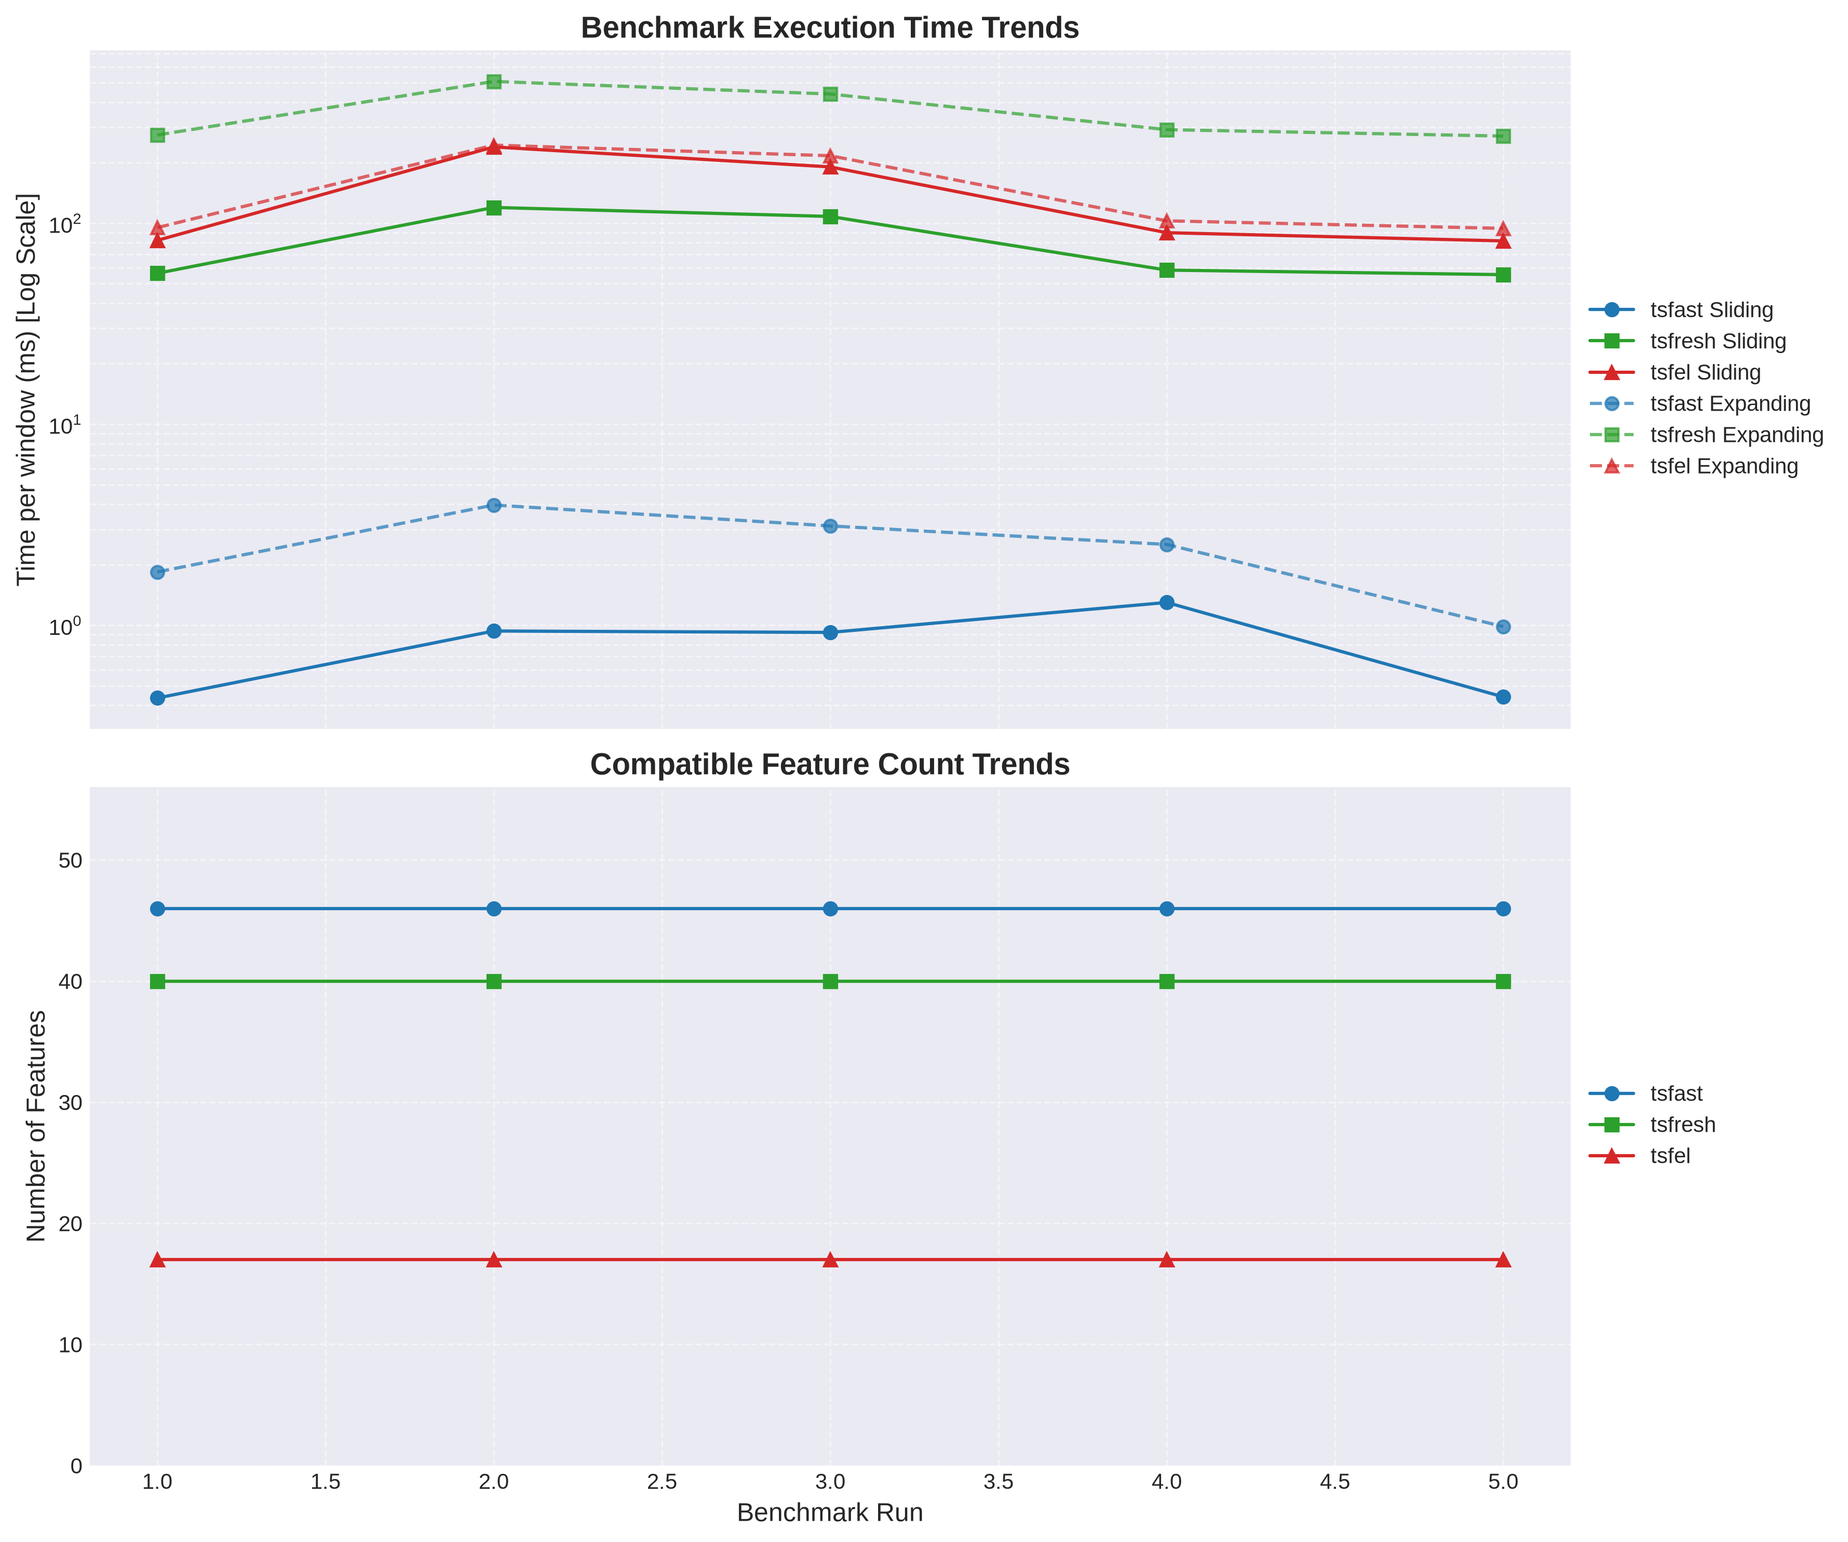
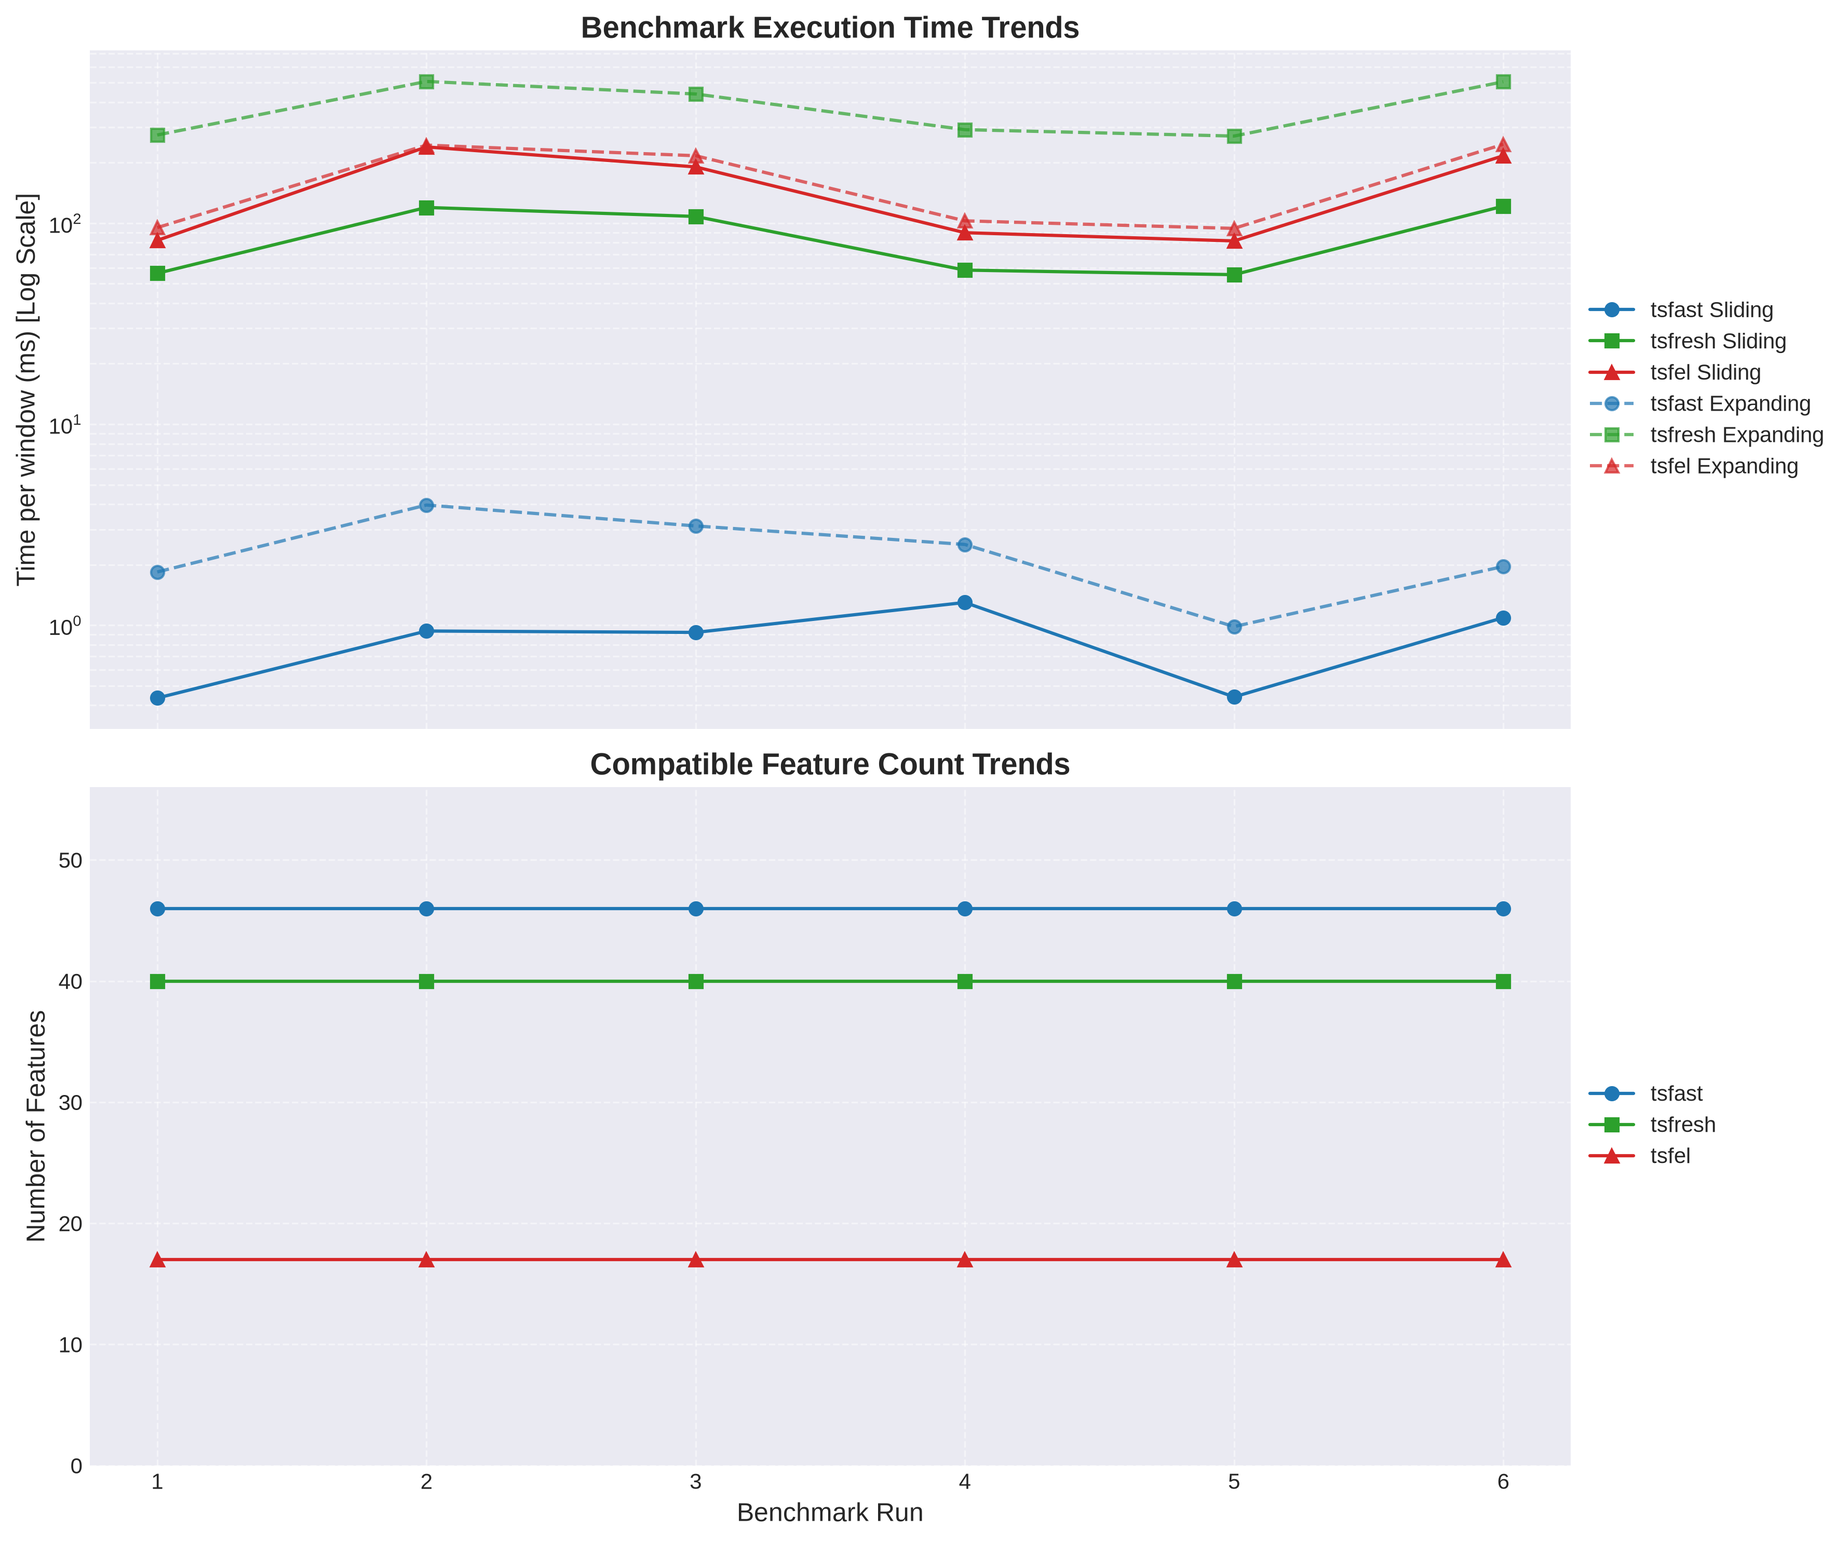
feat: Add ratio_beyond_r_sigma, index_mass_quantile, and c3 features (#49)
Added implementation for three missing tsfresh features: ratio_beyond_r_sigma,
index_mass_quantile, and c3. Ensured that they operate appropriately across
all engines (static, sliding, and expanding) and updated the benchmark suite
to evaluate their performance.

diff --git a/src/features/distribution.rs b/src/features/distribution.rs
@@ -13,7 +13,7 @@ pub fn eval_distribution(
     let _m3 = context.m3;
     let _m4 = context.m4;
     let _var = context.var;
-    let _std_dev = context.std_dev;
+    let std_dev = context.std_dev;
     let _mac_sum = context.mac_sum;
     let _mc_sum = context.mc_sum;
     let _first_max_idx = context.first_max_idx;
@@ -43,6 +43,84 @@ pub fn eval_distribution(
     let res = match feat {
                 Feature::Median => median,
                 Feature::Entropy => entropy,
+                Feature::RatioBeyondRSigma(r_bits) => {
+                    let r = f32::from_bits(*r_bits);
+                    let boundary = r * std_dev;
+                    let mean = context.mean;
+                    let mut count = 0;
+                    // We can use vectorized logic to speed up processing
+                    use std::simd::{f32x4, num::SimdFloat, cmp::SimdPartialOrd};
+
+                    let chunks = values.chunks_exact(4);
+                    let rem = chunks.remainder();
+                    let boundary_simd = f32x4::splat(boundary);
+                    let mean_simd = f32x4::splat(mean);
+
+                    for chunk in chunks {
+                        let v = f32x4::from_slice(chunk);
+                        let diff = (v - mean_simd).abs();
+                        let mask = diff.simd_gt(boundary_simd);
+                        count += mask.to_bitmask().count_ones();
+                    }
+
+                    for &v in rem {
+                        if (v - mean).abs() > boundary {
+                            count += 1;
+                        }
+                    }
+
+                    if values.is_empty() {
+                        0.0
+                    } else {
+                        count as f32 / values.len() as f32
+                    }
+                }
+                Feature::IndexMassQuantile(q_bits) => {
+                    let q = f32::from_bits(*q_bits) as f64;
+                    let target_mass = q * state.abs_sum as f64;
+
+                    if target_mass <= 0.0 || values.is_empty() {
+                        0.0
+                    } else {
+                        // Check if we can resume (only if the array hasn't shrunk, e.g. expanding)
+                        if state.mass_pointer < values.len() && state.mass_cum_sum < target_mass {
+                            let mut cum_sum = state.mass_cum_sum;
+                            let mut pointer = state.mass_pointer;
+                            while pointer < values.len() {
+                                cum_sum += values[pointer].abs() as f64;
+                                if cum_sum >= target_mass {
+                                    state.mass_cum_sum = cum_sum;
+                                    state.mass_pointer = pointer;
+                                    break;
+                                }
+                                pointer += 1;
+                            }
+                            if pointer >= values.len() {
+                                pointer = values.len() - 1;
+                                state.mass_cum_sum = cum_sum;
+                                state.mass_pointer = pointer;
+                            }
+                            (state.mass_pointer + 1) as f32 / values.len() as f32
+                        } else {
+                            // Sliding window or mass center shifted left
+                            let mut cum_sum = 0.0;
+                            let mut pointer = 0;
+                            while pointer < values.len() {
+                                cum_sum += values[pointer].abs() as f64;
+                                if cum_sum >= target_mass {
+                                    break;
+                                }
+                                pointer += 1;
+                            }
+                            if pointer >= values.len() {
+                                pointer = values.len() - 1;
+                            }
+                            state.mass_cum_sum = cum_sum;
+                            state.mass_pointer = pointer;
+                            (pointer + 1) as f32 / values.len() as f32
+                        }
+                    }
+                }
                 Feature::Quantile(q_bits) => {
                     let q = f32::from_bits(*q_bits);
 

diff --git a/src/types/parse.rs b/src/types/parse.rs
@@ -203,6 +203,10 @@ fn parse_parameterized(s: &str) -> Option<Feature> {
         let r: f32 = arg.parse().ok()?;
         return Some(Feature::SymmetryLooking(r.to_bits()));
     }
+    if let Some(arg) = s.strip_prefix("ratio_beyond_r_sigma-") {
+        let r: f32 = arg.parse().ok()?;
+        return Some(Feature::RatioBeyondRSigma(r.to_bits()));
+    }
     None
 }
 
@@ -312,6 +316,11 @@ fn parse_legacy_format(s: &str) -> Option<Feature> {
     if let Some(arg) = s.strip_prefix("symmetry_looking__r_") {
         let r: f32 = arg.parse().ok()?;
         return Some(Feature::SymmetryLooking(r.to_bits()));
+    }
+    if s.contains("value__ratio_beyond_r_sigma__r_") {
+        let pos = s.find("r_")?;
+        let r: f32 = s[pos + 2..].parse().ok()?;
+        return Some(Feature::RatioBeyondRSigma(r.to_bits()));
     }
     None
 }
@@ -465,6 +474,9 @@ impl Feature {
             }
             Feature::SymmetryLooking(r_bits) => {
                 format!("symmetry_looking-{}", f32::from_bits(*r_bits))
+            }
+            Feature::RatioBeyondRSigma(r_bits) => {
+                format!("ratio_beyond_r_sigma-{}", f32::from_bits(*r_bits))
             }
             Feature::HasDuplicateMax => "has_duplicate_max".to_string(),
             Feature::HasDuplicateMin => "has_duplicate_min".to_string(),

diff --git a/tests/test_tsfast.py b/tests/test_tsfast.py
@@ -5,7 +5,7 @@ import pytest
 
 def test_extract():
     x = np.array([1.0, 2.0, 3.0, 4.0, 5.0], dtype=np.float32)
-    features = ["mean", "std", "energy", "min", "max", "autocorr_lag1", "length", "variance_larger_than_standard_deviation", 'mean_second_derivative_central', 'large_standard_deviation-0.05', 'symmetry_looking-0.05']
+    features = ["mean", "std", "energy", "min", "max", "autocorr_lag1", "length", "variance_larger_than_standard_deviation", 'mean_second_derivative_central', 'large_standard_deviation-0.05', 'symmetry_looking-0.05', "ratio_beyond_r_sigma-1.0", "index_mass_quantile-0.5", "c3-1"]
     
     extractor = tsfast.Extractor(features)
     batch = pa.RecordBatch.from_arrays([pa.array(x)], names=['c1'])
@@ -27,6 +27,11 @@ def test_extract():
     assert results[6] == 5.0 # length
     # var of [1,2,3,4,5] is 2.5. 2.5 > 1.0, so 1.0
     assert results[7] == 1.0 # variance_larger_than_standard_deviation
+
+    assert np.allclose(results[11], 0.4)
+    assert np.allclose(results[12], 0.8)
+    assert np.allclose(results[13], 30.0)
+
     print("test_extract passed!")
 
 def test_new_features():

diff --git a/benchmarks/conftest.py b/benchmarks/conftest.py
@@ -26,7 +26,8 @@ def full_30_features():
         "abs_sum_change", "count_above_mean", "count_below_mean",
         "longest_strike_above_mean", "longest_strike_below_mean",
         "abs_max", "first_loc_max", "last_loc_max", "first_loc_min", "last_loc_min",
-        "length", "variance_larger_than_standard_deviation", "percentage_of_reoccurring_datapoints_to_all_datapoints", "percentage_of_reoccurring_values_to_all_values", "ratio_value_number_to_time_series_length"
+        "length", "variance_larger_than_standard_deviation", "percentage_of_reoccurring_datapoints_to_all_datapoints", "percentage_of_reoccurring_values_to_all_values", "ratio_value_number_to_time_series_length",
+        "ratio_beyond_r_sigma-2.0", "index_mass_quantile-0.5", "c3-2"
     ]
 
 @pytest.fixture(scope="session")

diff --git a/src/types/feature.rs b/src/types/feature.rs
@@ -82,6 +82,7 @@ pub enum Feature {
     MeanSecondDerivativeCentral,
     LargeStandardDeviation(u32),
     SymmetryLooking(u32),
+    RatioBeyondRSigma(u32), // r encoded as u32 bits
     HasDuplicateMax,
     HasDuplicateMin,
     HasDuplicate,
@@ -224,6 +225,9 @@ impl Feature {
             }
             Self::SymmetryLooking(_) => {
                 C::SUM | C::MEAN | C::MIN | C::MAX | C::MEDIAN | C::NEEDS_SORT
+            }
+            Self::RatioBeyondRSigma(_) => {
+                C::SUM | C::MEAN | C::VARIANCE | C::ENERGY | C::NEEDS_SORT | C::RATIO_BEYOND_R_SIGMA
             }
             Self::HasDuplicateMax => C::MAX | C::HAS_DUP_MAX | C::NEEDS_SORT,
             Self::HasDuplicateMin => C::MIN | C::HAS_DUP_MIN | C::NEEDS_SORT,

diff --git a/src/common.rs b/src/common.rs
@@ -84,6 +84,8 @@ pub struct ColumnState {
     pub c3_sums_vec: Vec<f32x4>,
     pub autocorr_sums: Vec<f32>,
     pub prefix_sums: Vec<f32>,
+    pub mass_pointer: usize,
+    pub mass_cum_sum: f64,
     pub prev_last: f32,
     pub prev_val: f32,
     pub prev_prev_val: f32,
@@ -198,6 +200,8 @@ impl ColumnState {
             c3_sums_vec: vec![f32x4::splat(0.0); unique_c3_lags.len()],
             autocorr_sums: vec![0.0; unique_autocorr_lags.len()],
             prefix_sums: Vec::new(),
+            mass_pointer: 0,
+            mass_cum_sum: 0.0,
             prev_last: first_val,
             prev_val: first_val,
             prev_prev_val: first_val,

diff --git a/tests/test_expanding.py b/tests/test_expanding.py
@@ -4,7 +4,7 @@ import numpy as np
 from tsfast._tsfast import ExpandingExtractor
 
 def test_expanding_multiple_columns():
-    features = ["mean", "max_value", "total_sum", 'mean_second_derivative_central', 'large_standard_deviation-0.05', 'symmetry_looking-0.05']
+    features = ["mean", "max_value", "total_sum", 'mean_second_derivative_central', 'large_standard_deviation-0.05', 'symmetry_looking-0.05', 'ratio_beyond_r_sigma-1.0', 'index_mass_quantile-0.5', 'c3-1']
     n_cols = 2
     extractor = ExpandingExtractor(features, n_cols)
     

diff --git a/tests/test_sliding.py b/tests/test_sliding.py
@@ -4,7 +4,7 @@ import numpy as np
 from tsfast._tsfast import SlidingExtractor
 
 def test_sliding_multiple_columns():
-    features = ["mean", "total_sum", 'mean_second_derivative_central', 'large_standard_deviation-0.05', 'symmetry_looking-0.05']
+    features = ["mean", "total_sum", 'mean_second_derivative_central', 'large_standard_deviation-0.05', 'symmetry_looking-0.05', 'ratio_beyond_r_sigma-1.0', 'index_mass_quantile-0.5', 'c3-1']
     n_cols = 2
     window_size = 2
     stride = 1

diff --git a/src/types/compute.rs b/src/types/compute.rs
@@ -90,6 +90,7 @@ bitflags! {
         const SPEC_SPREAD    = 1 << 71;
         const SPEC_SKEWNESS  = 1 << 72;
         const SPEC_KURTOSIS  = 1 << 73;
+        const RATIO_BEYOND_R_SIGMA = 1 << 74;
 
         // ── Composite masks (zero bit-cost) ────────────────────
         const ANY_FFT = Self::FFT_COEFF.bits()

diff --git a/README.md b/README.md
@@ -15,24 +15,24 @@ TSFast is a high-performance time-series feature extraction library written in R
 ![Benchmark Trends](.jules/benchmark_trends.png)
 
 ## Latest Results
-| Date                | CommitHash   | Benchmark_Name                       |   Metric_Value | Unit   |   Delta_From_Last | Direction   |
-|:--------------------|:-------------|:-------------------------------------|---------------:|:-------|------------------:|:------------|
-| 2026-10-03 14:02:30 | c224b58      | tsfast_sliding_first_window          |       1.61147  | ms     |            -70.96 | 🟢          |
-| 2026-10-03 14:02:30 | c224b58      | tsfast_sliding_avg_next_50           |       0.440021 | ms     |            -66.11 | 🟢          |
-| 2026-10-03 14:02:30 | c224b58      | tsfast_expanding_first_window        |       0.312805 | ms     |            -11.65 | 🟢          |
-| 2026-10-03 14:02:30 | c224b58      | tsfast_expanding_avg_next_50         |       0.984726 | ms     |            -60.97 | 🟢          |
-| 2026-10-03 14:02:30 | c224b58      | tsfast_static_sliding_first_window   |       0.55933  | ms     |             11.18 | 🔴          |
-| 2026-10-03 14:02:30 | c224b58      | tsfast_static_sliding_avg_next_50    |       0.402722 | ms     |            -69.97 | 🟢          |
-| 2026-10-03 14:02:30 | c224b58      | tsfast_static_expanding_first_window |       0.389338 | ms     |            -68.81 | 🟢          |
-| 2026-10-03 14:02:30 | c224b58      | tsfast_static_expanding_avg_next_50  |       1.80089  | ms     |            -52.46 | 🟢          |
-| 2026-10-03 14:02:30 | c224b58      | tsfresh_sliding_first_window         |      61.2752   | ms     |             -5.62 | 🟢          |
-| 2026-10-03 14:02:30 | c224b58      | tsfresh_sliding_avg_next_50          |      55.4476   | ms     |             -5.1  | 🟢          |
-| 2026-10-03 14:02:30 | c224b58      | tsfresh_expanding_first_window       |      54.6131   | ms     |             -6.41 | 🟢          |
-| 2026-10-03 14:02:30 | c224b58      | tsfresh_expanding_avg_next_50        |     271.194    | ms     |             -7.09 | 🟢          |
-| 2026-10-03 14:02:30 | c224b58      | tsfel_sliding_first_window           |      83.693    | ms     |            -19.01 | 🟢          |
-| 2026-10-03 14:02:30 | c224b58      | tsfel_sliding_avg_next_50            |      81.613    | ms     |             -8.99 | 🟢          |
-| 2026-10-03 14:02:30 | c224b58      | tsfel_expanding_first_window         |      81.573    | ms     |            -11.68 | 🟢          |
-| 2026-10-03 14:02:30 | c224b58      | tsfel_expanding_avg_next_50          |      94.1946   | ms     |             -8.29 | 🟢          |
-| 2026-10-03 14:02:30 | c224b58      | tsfast_compatible_features           |      46        | count  |              0    | ⚪          |
-| 2026-10-03 14:02:30 | c224b58      | tsfresh_compatible_features          |      40        | count  |              0    | ⚪          |
-| 2026-10-03 14:02:30 | c224b58      | tsfel_compatible_features            |      17        | count  |              0    | ⚪          |
+| Date                |   CommitHash | Benchmark_Name                       |   Metric_Value | Unit   |   Delta_From_Last | Direction   |
+|:--------------------|-------------:|:-------------------------------------|---------------:|:-------|------------------:|:------------|
+| 2026-10-03 16:14:05 |      7848612 | tsfast_sliding_first_window          |       3.76844  | ms     |            133.85 | 🔴          |
+| 2026-10-03 16:14:05 |      7848612 | tsfast_sliding_avg_next_50           |       1.09058  | ms     |            147.85 | 🔴          |
+| 2026-10-03 16:14:05 |      7848612 | tsfast_expanding_first_window        |       0.976562 | ms     |            212.2  | 🔴          |
+| 2026-10-03 16:14:05 |      7848612 | tsfast_expanding_avg_next_50         |       1.96109  | ms     |             99.15 | 🔴          |
+| 2026-10-03 16:14:05 |      7848612 | tsfast_static_sliding_first_window   |       1.10149  | ms     |             96.93 | 🔴          |
+| 2026-10-03 16:14:05 |      7848612 | tsfast_static_sliding_avg_next_50    |       0.985045 | ms     |            144.6  | 🔴          |
+| 2026-10-03 16:14:05 |      7848612 | tsfast_static_expanding_first_window |       0.969648 | ms     |            149.05 | 🔴          |
+| 2026-10-03 16:14:05 |      7848612 | tsfast_static_expanding_avg_next_50  |       3.49561  | ms     |             94.1  | 🔴          |
+| 2026-10-03 16:14:05 |      7848612 | tsfresh_sliding_first_window         |     123.044    | ms     |            100.81 | 🔴          |
+| 2026-10-03 16:14:05 |      7848612 | tsfresh_sliding_avg_next_50          |     121.517    | ms     |            119.16 | 🔴          |
+| 2026-10-03 16:14:05 |      7848612 | tsfresh_expanding_first_window       |     122.18     | ms     |            123.72 | 🔴          |
+| 2026-10-03 16:14:05 |      7848612 | tsfresh_expanding_avg_next_50        |     505.197    | ms     |             86.29 | 🔴          |
+| 2026-10-03 16:14:05 |      7848612 | tsfel_sliding_first_window           |     215.473    | ms     |            157.46 | 🔴          |
+| 2026-10-03 16:14:05 |      7848612 | tsfel_sliding_avg_next_50            |     216.415    | ms     |            165.17 | 🔴          |
+| 2026-10-03 16:14:05 |      7848612 | tsfel_expanding_first_window         |     214.971    | ms     |            163.53 | 🔴          |
+| 2026-10-03 16:14:05 |      7848612 | tsfel_expanding_avg_next_50          |     246.866    | ms     |            162.08 | 🔴          |
+| 2026-10-03 16:14:05 |      7848612 | tsfast_compatible_features           |      46        | count  |              0    | ⚪          |
+| 2026-10-03 16:14:05 |      7848612 | tsfresh_compatible_features          |      40        | count  |              0    | ⚪          |
+| 2026-10-03 16:14:05 |      7848612 | tsfel_compatible_features            |      17        | count  |              0    | ⚪          |
